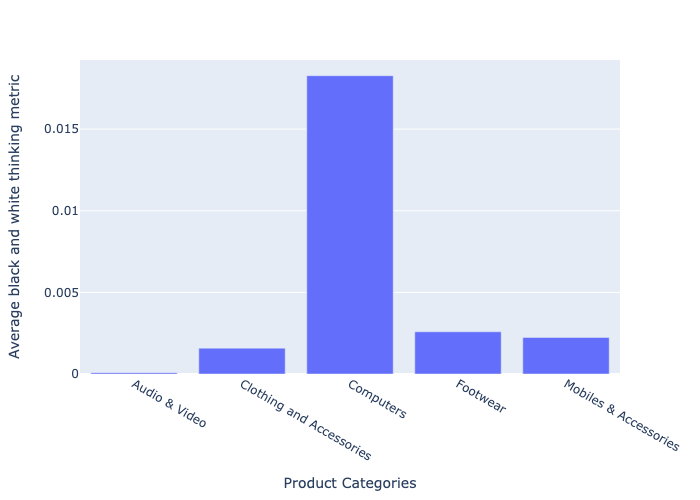
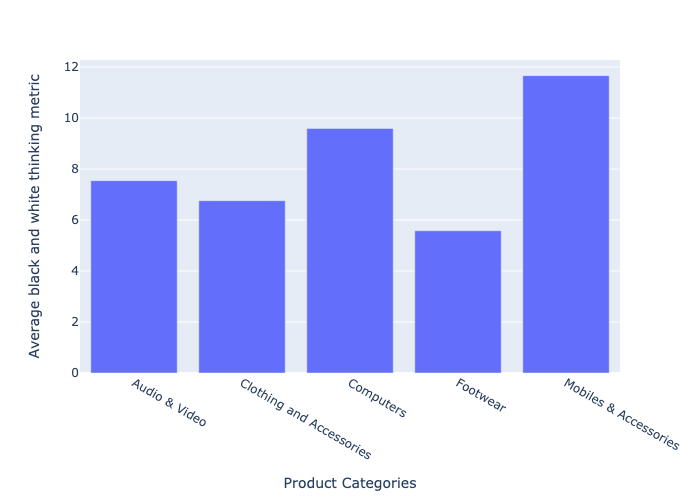
added a function to auto-remove logs after 10 searches

diff --git a/templates/index.html b/templates/index.html
@@ -25,23 +25,8 @@
 <p>Please note that it takes a lot of time in the backend to scrap the web for the products and comments as the webdriver emulates
     the visitation of each of the product and comments page. So, it is requested to
     wait for some time (2-3 minutes) before the result page is shown. Although the wait time is highly dependent on the latency
-    between the Heruko server (where this web app is hosted) and the Flipkart webpage, you can have a look at the following
-    examples to get an idea of the wait time.
+    between the Heruko server (where this web app is hosted) and the Flipkart webpage, you can have a look at the benchmarks given in the repo to get an idea of the wait time.
 </p>
-<table>
-    <tr>
-        <th>Search string</th>
-        <th>Number of comments</th>
-        <th>Time taken</th>
-    </tr>
-    <tbody>
-    <tr>
-        <td></td>
-        <td></td>
-        <td></td>
-    </tr>
-    </tbody>
-</table>
 
 <hr>
 

diff --git a/Flipkart_Scrapper.py b/Flipkart_Scrapper.py
@@ -352,6 +352,7 @@ class Scrapper_Class:
             a = self.cdb.read_table(query)
             max_a = a.loc[a.search_id == a['search_id'].max()]
             last_search_id = max_a['search_id']
+            self.clear_log(len(a))
             return last_search_id
         except Exception as e:
             logs.log_error('Error in finding the last search id in the products_searched table in the database.', str(e))
@@ -514,3 +515,17 @@ class Scrapper_Class:
         """
         self.driver.close()
         return
+
+    def clear_log(self, length):
+        """
+        Function to clear the logs when number of searches is divisible by 10. This allows to keep the logs only for the last 10 searches.
+        The function is called at get_last_search_id
+        :return: None
+        """
+        if length % 10 == 0:
+            file = open("logs.log",'r+')
+            file.truncate(0)
+            file.close()
+        else:
+            pass
+

diff --git a/product_analysis.py b/product_analysis.py
@@ -138,7 +138,7 @@ class product_analytics:
         """
         try:
             df1 = self.df[['product_tag', 'no_of_5stars', 'no_of_4stars', 'no_of_3stars', 'no_of_2stars', 'no_of_1star']]
-            df1['bnw'] = (1/abs(df1['no_of_5stars']-df1['no_of_1star']))*(1/(df1['no_of_2stars']+df1['no_of_3stars']+df1['no_of_4stars']))*(df1['no_of_5stars']+df1['no_of_2stars']+df1['no_of_3stars']+df1['no_of_4stars']+df1['no_of_1star'])
+            df1['bnw'] = (1/abs(df1['no_of_5stars']-df1['no_of_1star']))*(1/(df1['no_of_2stars']+df1['no_of_3stars']+df1['no_of_4stars']))*(df1['no_of_5stars']+df1['no_of_2stars']+df1['no_of_3stars']+df1['no_of_4stars']+df1['no_of_1star'])**2
             count_prod_cat = df1[['bnw', 'product_tag']].groupby(['product_tag']).mean()
             fig = px.bar(x=count_prod_cat.index, y=count_prod_cat['bnw'],
                          labels=dict(x="Product Categories", y="Average black and white thinking metric"))
